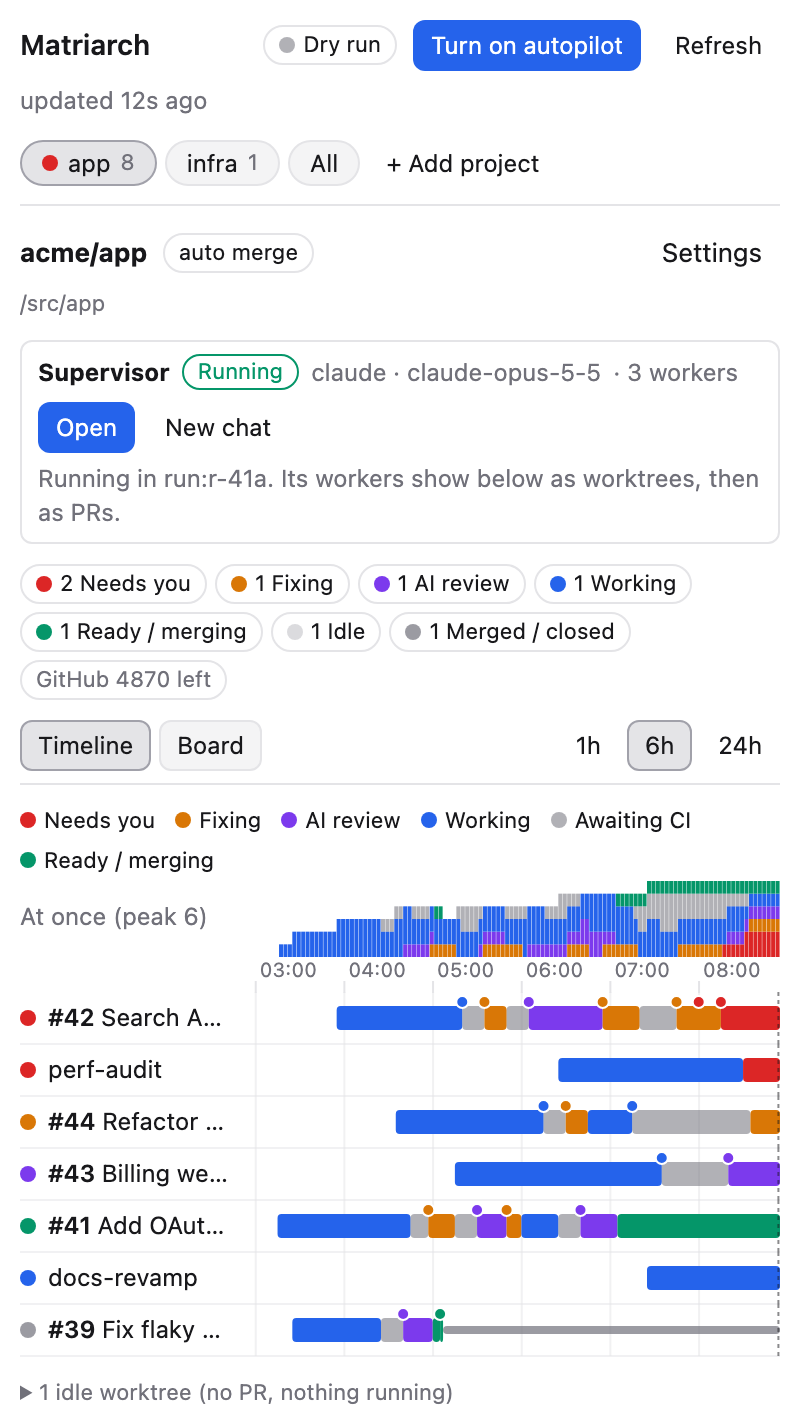
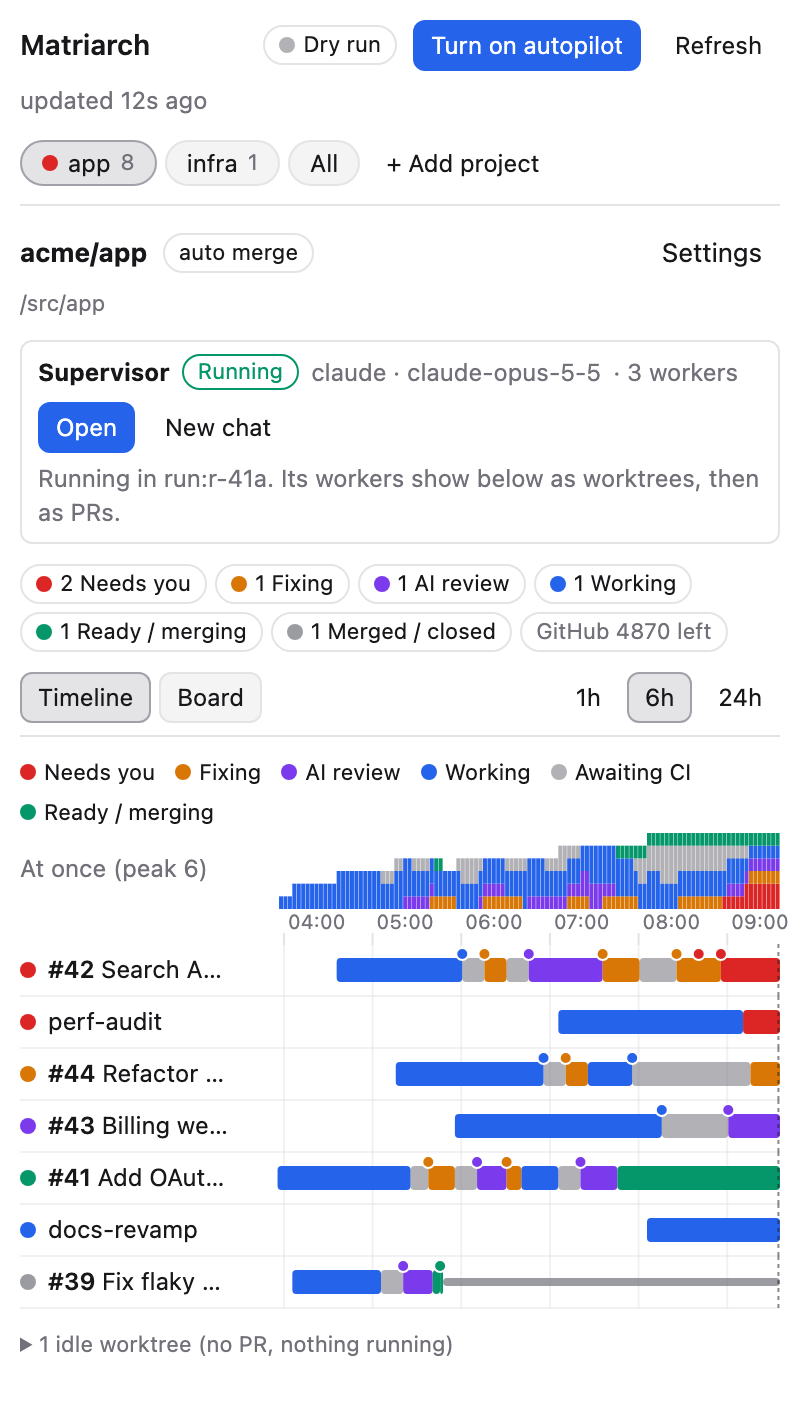
Use Matriarch's own colors in every Orca theme
Lanes, dots, the primary button and links used the theme's primary
color, which Orca's default themes make black (white in dark), so in
Orca every lane looked the same and nothing matched the screenshots.
They now use Matriarch's own palette, with dark variants chosen from
the theme's background; surfaces, borders and text still follow Orca.

Also: a long agent or model name wraps inside its card, the summary
chips count only what the board shows (not the folded idle
worktrees), and a worktree card without a PR no longer repeats its
name. The preview now uses Orca's monochrome theme, and the README
and listing images are retaken from it.

Changed region(s): [[0.0, 0.4326, 1.0, 0.9888], [0.9062, 0.4635, 0.9688, 0.5562], [0.3438, 0.4326, 0.375, 0.4635]]

diff --git a/src/view/style.ts b/src/view/style.ts
@@ -1,16 +1,26 @@
-// Styles from Orca's theme variables; lane colors get light and dark variants.
+// Surfaces, borders and text follow Orca's theme. Matriarch's colors (lanes, dots, the primary
+// button, links) are its own, with light and dark variants: many Orca themes make `primary` black or
+// white, which would leave every lane the same color.
 export const CSS = `
 :root {
-  --m-active: var(--orca-primary);
+  --m-blue: #2563eb;
+  --m-blue-fg: #ffffff;
+  --m-red: #dc2626;
+  --m-red-fg: #ffffff;
+  --m-active: var(--m-blue);
   --m-waiting: color-mix(in srgb, var(--orca-muted-foreground) 55%, transparent);
   --m-fixing: #d97706;
   --m-review: #7c3aed;
-  --m-blocked: var(--orca-destructive);
+  --m-blocked: var(--m-red);
   --m-ready: #059669;
   --m-quiet: color-mix(in srgb, var(--orca-muted-foreground) 25%, transparent);
   --m-done: color-mix(in srgb, var(--orca-muted-foreground) 70%, transparent);
 }
 html.dark {
+  --m-blue: #60a5fa;
+  --m-blue-fg: #0b0b0e;
+  --m-red: #f87171;
+  --m-red-fg: #0b0b0e;
   --m-fixing: #f59e0b;
   --m-review: #a78bfa;
   --m-ready: #34d399;
@@ -21,11 +31,11 @@ html, body { margin: 0; padding: 0; background: var(--orca-background); color: v
 button { font: inherit; color: inherit; background: var(--orca-secondary); border: 1px solid var(--orca-border);
   border-radius: var(--orca-radius, 6px); padding: 3px 8px; cursor: pointer; }
 button:hover { background: var(--orca-accent); }
-button.primary { background: var(--orca-primary); color: var(--orca-primary-foreground); border-color: transparent; }
-button.danger { background: var(--orca-destructive); color: var(--orca-destructive-foreground); border-color: transparent; }
+button.primary { background: var(--m-blue); color: var(--m-blue-fg); border-color: transparent; }
+button.danger { background: var(--m-red); color: var(--m-red-fg); border-color: transparent; }
 button.ghost { background: transparent; border-color: transparent; }
 button[aria-pressed="true"] { background: var(--orca-accent); border-color: var(--orca-ring); }
-a { color: var(--orca-primary); text-decoration: none; cursor: pointer; }
+a { color: var(--m-blue); text-decoration: none; cursor: pointer; }
 a:hover { text-decoration: underline; }
 .app { padding: 10px; display: flex; flex-direction: column; gap: 10px; }
 .header { display: flex; flex-wrap: wrap; align-items: center; gap: 6px 8px; }
@@ -35,6 +45,8 @@ a:hover { text-decoration: underline; }
   border: 1px solid var(--orca-border); background: var(--orca-card); white-space: nowrap; font-size: 11px; }
 .dot { width: 8px; height: 8px; border-radius: 50%; display: inline-block; flex: none; }
 .chips { display: flex; flex-wrap: wrap; gap: 4px; }
+/* A long agent or model name wraps inside its card instead of running past it. */
+.card .pill { white-space: normal; overflow-wrap: anywhere; max-width: 100%; }
 .tabs { display: flex; gap: 4px; border-bottom: 1px solid var(--orca-border); padding-bottom: 6px; align-items: center; }
 .tabs .spacer { flex: 1; }
 .callout { border: 1px solid var(--orca-border); border-left: 3px solid var(--m-blocked); background: var(--orca-card);
@@ -48,7 +60,7 @@ a:hover { text-decoration: underline; }
 .sup { border: 1px solid var(--orca-border); border-radius: var(--orca-radius, 6px); padding: 6px 8px; background: var(--orca-card); display: flex; flex-direction: column; gap: 4px; }
 .sup-head { display: flex; align-items: center; gap: 6px; flex-wrap: wrap; }
 .sup-head .spacer { flex: 1; }
-.sup summary { cursor: pointer; color: var(--orca-primary); }
+.sup summary { cursor: pointer; color: var(--m-blue); }
 .sup-hint { color: var(--m-fixing); font-size: 11px; min-height: 0; }
 .sup-hint:empty { display: none; }
 .badge { font-size: 11px; padding: 0 7px; border-radius: 999px; border: 1px solid var(--orca-border); white-space: nowrap; }
@@ -115,7 +127,7 @@ select:disabled { opacity: .5; }
 .picker-row { display: flex; flex-direction: column; padding: 3px 6px; border-radius: 4px; cursor: pointer; min-width: 0; }
 .picker-row:hover, .picker-row.active { background: var(--orca-accent); }
 .picker-row.chosen .picker-main::after { content: ' ✓'; color: var(--m-ready); }
-.picker-row.custom .picker-main { color: var(--orca-primary); }
+.picker-row.custom .picker-main { color: var(--m-blue); }
 .picker-main { overflow: hidden; text-overflow: ellipsis; white-space: nowrap; }
 .picker-sub { font-size: 10px; overflow: hidden; text-overflow: ellipsis; white-space: nowrap; }
 .picker-group { font-size: 10px; text-transform: uppercase; letter-spacing: .04em; color: var(--orca-muted-foreground); padding: 6px 6px 2px; }

diff --git a/src/view/main.ts b/src/view/main.ts
@@ -76,6 +76,21 @@ document.head.append(style)
 const root = el('div', { class: 'app' })
 document.body.append(root)
 
+// Orca hands frames its theme's colors but not whether the theme is dark: tell from the background,
+// and again whenever Orca changes the variables in place.
+function syncDark(): void {
+  if (!getComputedStyle(document.documentElement).getPropertyValue('--orca-background').trim()) return
+  const probe = document.createElement('span')
+  probe.style.color = 'var(--orca-background)'
+  document.body.append(probe)
+  const rgb = getComputedStyle(probe).color.match(/\d+(\.\d+)?/g)?.slice(0, 3).map(Number)
+  probe.remove()
+  if (!rgb || rgb.length < 3) return
+  document.documentElement.classList.toggle('dark', 0.2126 * rgb[0] + 0.7152 * rgb[1] + 0.0722 * rgb[2] < 128)
+}
+syncDark()
+new MutationObserver(syncDark).observe(document.documentElement, { attributes: true, attributeFilter: ['style', 'class'] })
+
 async function request<T>(fn: () => Promise<T>): Promise<T | null> {
   state.busy = true
   render(true)
@@ -405,7 +420,8 @@ function card(t: TrackView): HTMLElement {
     el('div', { class: 'top' },
       pr ? el('a', { title: 'Open the PR on GitHub', onclick: () => openPr(pr.url) }, `#${pr.number}`) : null,
       el('span', { class: 'name', title: pr?.title ?? t.workspace.name }, t.role === 'supervisor' ? 'Supervisor' : pr?.title || t.workspace.name)),
-    el('div', { class: 'muted' }, el('a', { title: 'Open the worktree in Orca', onclick: () => openTrack(t) }, t.workspace.name), t.workspace.branch ? ` · ${t.workspace.branch}` : ''),
+    // Without a PR the title already is the worktree's name, so it is not repeated here.
+    el('div', { class: 'muted' }, el('a', { title: 'Open the worktree in Orca', onclick: () => openTrack(t) }, pr || t.role === 'supervisor' ? t.workspace.name : 'Open the worktree'), t.workspace.branch ? ` · ${t.workspace.branch}` : ''),
     el('div', { class: 'chips' },
       el('span', { class: 'pill' }, lane.label),
       pr ? el('span', { class: 'pill', title: pr.failing.join(', ') }, `CI ${pr.ci}${pr.failing.length ? ` (${pr.failing.length})` : ''}`) : null,
@@ -604,7 +620,7 @@ function projectPage(b: Board, r: RepoView): HTMLElement[] {
     // With the form open, its own notes replace the project's.
     problems(b, [open ? { ...r, warnings: [] } : r], false),
     supervisorCard(r),
-    tracks.length ? chips(tracks, b) : null,
+    tracks.length ? chips(tracks.filter((t) => !isIdle(t)), b) : null,
     ...(tracks.some((t) => !isIdle(t))
       ? work(tracks.filter((t) => !isIdle(t)), b, false)
       : [el('div', { class: 'empty muted' }, tracks.length ? 'Nothing in flight right now.' : 'No work here yet. Open the supervisor chat and tell it what to build: each worker shows up here as a worktree, then as a PR.')]),
@@ -614,7 +630,7 @@ function projectPage(b: Board, r: RepoView): HTMLElement[] {
 
 function allPage(b: Board): HTMLElement[] {
   return [
-    chips(b.tracks, b),
+    chips(b.tracks.filter((t) => !isIdle(t)), b),
     attention(b, null),
     problems(b, b.repos, true),
     ...(b.tracks.some((t) => !isIdle(t)) ? work(b.tracks.filter((t) => !isIdle(t)), b, true) : [el('div', { class: 'empty muted' }, 'Nothing in flight in any project.')]),
@@ -671,6 +687,7 @@ function addPage(b: Board): HTMLElement[] {
 }
 
 function render(force = false): void {
+  syncDark()
   // Re-rendering replaces the DOM; never do it under the person's cursor unless they acted.
   const active = document.activeElement
   if (!force && active && root.contains(active) && (active instanceof HTMLTextAreaElement || active instanceof HTMLInputElement || active instanceof HTMLSelectElement)) {

diff --git a/tools/preview/index.html b/tools/preview/index.html
@@ -4,14 +4,15 @@
 <meta charset="utf-8">
 <meta name="viewport" content="width=device-width, initial-scale=1">
 <style>
-  /* Stand-ins for Orca's theme variables (light), overridden for dark below. */
+  /* Stand-ins for Orca's theme variables, as Orca's default themes set them: `primary` is near-black
+     (white in dark), so the preview shows what a monochrome theme does to the panel. */
   :root { --orca-background:#ffffff; --orca-foreground:#18181b; --orca-card:#ffffff; --orca-card-foreground:#18181b;
-    --orca-popover:#ffffff; --orca-primary:#2563eb; --orca-primary-foreground:#ffffff; --orca-secondary:#f4f4f5;
+    --orca-popover:#ffffff; --orca-primary:#18181b; --orca-primary-foreground:#fafafa; --orca-secondary:#f4f4f5;
     --orca-secondary-foreground:#18181b; --orca-muted:#f4f4f5; --orca-muted-foreground:#71717a; --orca-accent:#e4e4e7;
     --orca-accent-foreground:#18181b; --orca-destructive:#dc2626; --orca-destructive-foreground:#ffffff;
     --orca-border:#e4e4e7; --orca-input:#e4e4e7; --orca-ring:#a1a1aa; --orca-radius:6px; }
   html.dark { --orca-background:#0b0b0e; --orca-foreground:#e4e4e7; --orca-card:#141418; --orca-card-foreground:#e4e4e7;
-    --orca-primary:#60a5fa; --orca-primary-foreground:#0b0b0e; --orca-secondary:#1c1c22; --orca-secondary-foreground:#e4e4e7;
+    --orca-primary:#fafafa; --orca-primary-foreground:#18181b; --orca-secondary:#1c1c22; --orca-secondary-foreground:#e4e4e7;
     --orca-muted:#1c1c22; --orca-muted-foreground:#a1a1aa; --orca-accent:#27272a; --orca-destructive:#f87171;
     --orca-destructive-foreground:#0b0b0e; --orca-border:#27272a; --orca-input:#27272a; --orca-ring:#52525b; }
 </style>
@@ -63,7 +64,7 @@
         segments: segs([['building', 340], ['awaiting-ci', 250], ['fixing-ci', 238], ['awaiting-ci', 220], ['ai-review', 205], ['fixing-review', 185], ['working', 175], ['awaiting-ci', 150], ['ai-review', 135], ['ready', 110]]),
         marks: [mark('ci-sent', 238, 'CI failure sent'), mark('review-start', 205, 'review round 1'), mark('comments-sent', 185, '4 findings sent'), mark('review-start', 135, 'review round 2')] }),
       track({ key: 'docs-revamp', lane: 'building', reason: 'the agent is working; no PR yet', pr: null,
-        owner: { agent: 'grok', model: 'grok-4.7', activity: 'working', supervised: true },
+        owner: { agent: 'opencode', model: 'deepinfra/deepseek-ai/DeepSeek-V4-Pro', activity: 'working', supervised: true },
         segments: segs([['building', 90]]) }),
       track({ key: 'flaky-test', lane: 'merged', reason: 'merged',
         pr: { number: 39, title: 'Fix flaky checkout test', url: '#', sha: 'f'.repeat(40), base: 'main', ci: 'passing', failing: [], openThreads: 0 },
